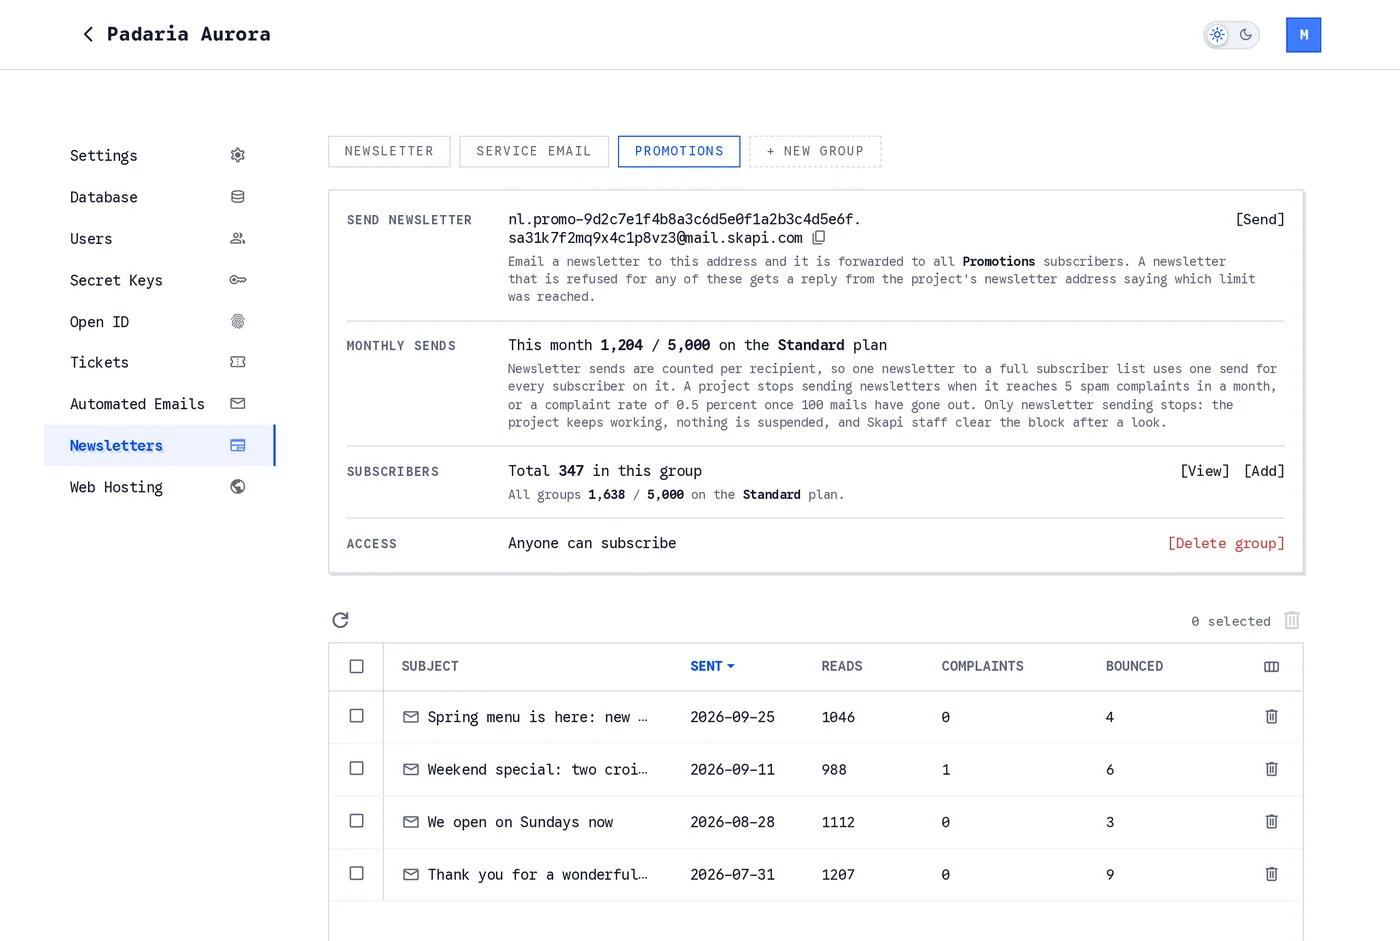
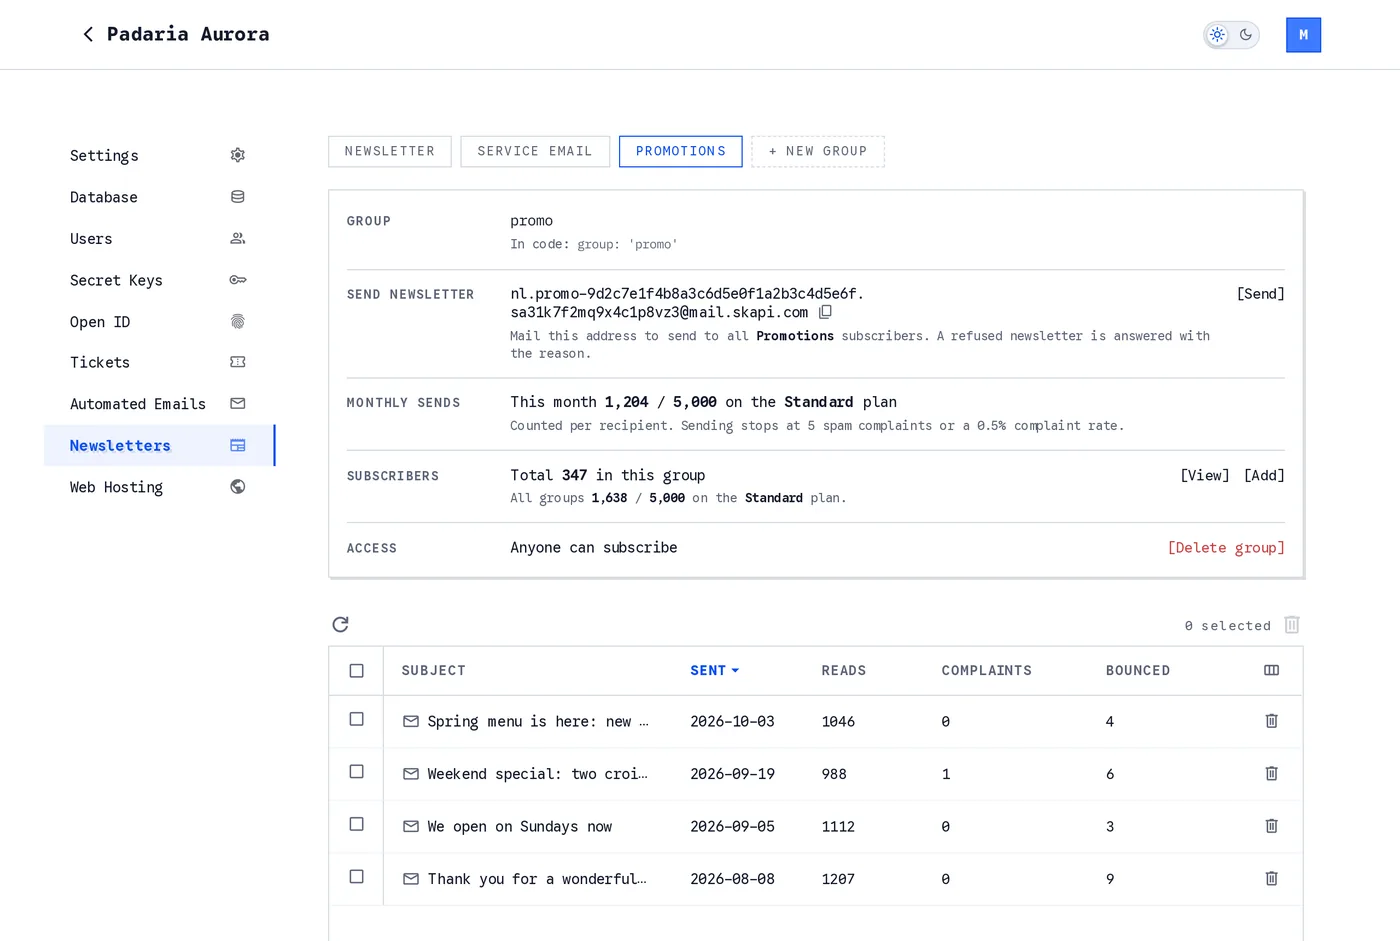
docs: update email subscription options in signup and enhance related documentation; bump version to 2.2.4

diff --git a/email/newsletters.md b/email/newsletters.md
@@ -12,7 +12,7 @@ Endpoints in the older `xxxxxxxxxxxxxxxxxxxx-00xxxxxxxxxxxxxxxxxxxxxxxxxxxxxxxx@
 
 Go to `Newsletters` page, select the tab (`Newsletter`, `Service Email` or a named group), and the page will show the email endpoint address to send the newsletter.
 
-![The Newsletters page of a Skapi project: one tab per list, the sending address with a Send link, monthly sends, subscribers with View and Add links, and the table of sent newsletters](/screenshots/newsletter-page.webp)
+![The Newsletters page of a Skapi project: one tab per list, the group's name as code gives it, the sending address with a Send link, monthly sends, subscribers with View and Add links, and the table of sent newsletters](/screenshots/newsletter-page.webp)
 
 *The Newsletters page. Every list has its own sending address, its own subscriber count and its own history of sent mail.*
 
@@ -148,14 +148,42 @@ skapi.subscribeNewsletter({
 
 The example above shows how to let your users subscribe to Service Email by calling [`subscribeNewsletter()`](/api-reference/email/README.md#subscribenewsletter).
 
+### Subscribing at signup
+
+A user can be subscribed to a newsletter the moment they confirm their e-mail, by giving `email_subscription` to [`signup()`](/api-reference/authentication/README.md#signup).
+It takes the newsletter to subscribe to:
+
+| `email_subscription` | Subscribes the user to |
+| --- | --- |
+| `0` or `'public'` | The public newsletter (group `0`) |
+| `1` or `'authorized'` or `true` | Service Email (group `1`) |
+| The name of a named group, such as `'promo'` | That named newsletter group |
+| `false` or left out | Nothing |
+
+```js
+skapi.signup(
+    { email: 'user@email.com', password: 'password' },
+    { signup_confirmation: true, email_subscription: 'promo' }
+).then(res => alert(res));
+```
+
+The subscription is made when the user opens the signup confirmation link, which also verifies their e-mail. No separate newsletter confirmation e-mail is sent: the signup confirmation is the confirmation.
+
+:::warning
+- `signup_confirmation` is required. A user whose e-mail is never confirmed is never subscribed.
+- A named group has to exist when `signup()` is called, otherwise the call fails with `Newsletter group "promo" does not exist for this service.` If the group is deleted before the user confirms, or its restriction asks for an access group the new account does not have, the user is created without the subscription.
+- Only `0` and `1` are accepted as numbers. The access groups `2` ~ `99` are not newsletters a signup can choose; create a named group with that restriction instead.
+:::
+
 ## Named Newsletters
 
 Your service is not limited to a single mailing list.
 You can create **named newsletter groups** on the `Newsletters` page, and each group keeps its own subscribers, its own sending address, and its own sent mail history.
-For example, one service can run a `launch` list next to a `promo` list, and a subscriber of one never receives the other.
+For example, one service can run a `promo` list next to a `news` list, and a subscriber of one never receives the other.
 
 A group name is 2 ~ 20 lowercase alphanumeric characters, has to contain at least one letter, and cannot be one of the reserved names: `tp`, `admin`, `public`, `authorized`, `newsletter`, `forward`, `all`, `true`, `false`, `null`.
 A name that reads as a number in exponent notation, such as `1e5`, is refused as well.
+`public` and `authorized` are reserved because they are the names of the two numeric groups: everywhere a group is given, including `email_subscription` at signup, `public` means group `0` and `authorized` means group `1`, so no named group can take them.
 
 Every group is created with a `restriction`, which decides who may subscribe to it, and who may read its sent mail:
 
@@ -198,7 +226,7 @@ Subscribing works exactly as it does for the public newsletter and Service Email
 <form onsubmit="skapi.subscribeNewsletter(event).then(res => alert(res))">
     <input type="email" name="email" placeholder='your@email.com'/>
     <input hidden name="redirect" value="https://your.domain.com/successpage"/>
-    <input hidden name="group" value="launch"/>
+    <input hidden name="group" value="promo"/>
     <input type="submit" value="Subscribe"/>
 </form>
 ```
@@ -207,7 +235,7 @@ Subscribing works exactly as it does for the public newsletter and Service Email
 skapi.subscribeNewsletter({
     email: 'users@email.com',
     redirect: 'https://your.domain.com/successpage',
-    group: 'launch'
+    group: 'promo'
 }).then(res => alert(res));
 ```
 :::
@@ -218,22 +246,22 @@ Named newsletters always carry an unsubscribe link at the bottom of the email.
 :::warning
 `email` and `redirect` are only for groups with `restriction: 0`.
 To subscribe to a group with a higher restriction, the user must be logged in, must have their [`email verified`](/user-account/email-verification), and their access group must be equal to or higher than the group's restriction.
-Otherwise the request fails with `Access denied. Your access group is insufficient to subscribe to group "launch".`
+Otherwise the request fails with `Access denied. Your access group is insufficient to subscribe to group "promo".`
 :::
 
 [`getNewsletterSubscription()`](/api-reference/email/README.md#getnewslettersubscription), [`unsubscribeNewsletter()`](/api-reference/email/README.md#unsubscribenewsletter) and [`getNewsletters()`](/api-reference/email/README.md#getnewsletters) all take a group name in the same place:
 
 ```js
-skapi.getNewsletterSubscription({ group: 'launch' }).then(subs => {
-    // subscriptions of the 'launch' group
+skapi.getNewsletterSubscription({ group: 'promo' }).then(subs => {
+    // subscriptions of the 'promo' group
 });
 
-skapi.unsubscribeNewsletter({ group: 'launch' }).then(res => {
-    // user is unsubscribed from the 'launch' newsletter
+skapi.unsubscribeNewsletter({ group: 'promo' }).then(res => {
+    // user is unsubscribed from the 'promo' newsletter
 });
 
-skapi.getNewsletters({ searchFor: 'timestamp', value: Date.now(), condition: '<', group: 'launch' }).then(newsletters => {
-    // newsletters.list is an array of newsletters sent to the 'launch' group
+skapi.getNewsletters({ searchFor: 'timestamp', value: Date.now(), condition: '<', group: 'promo' }).then(newsletters => {
+    // newsletters.list is an array of newsletters sent to the 'promo' group
 });
 ```
 
@@ -242,14 +270,14 @@ skapi.getNewsletters({ searchFor: 'timestamp', value: Date.now(), condition: '<'
 A named group has an endpoint address of its own, starting with `nl.` and the group name:
 
 ```
-nl.launch-xxxxxxxxxxxxxxxxxxxxxxxxxxxxxxxx.xxxxxxxxxxxxxxxxxxxx@mail.skapi.com
+nl.promo-xxxxxxxxxxxxxxxxxxxxxxxxxxxxxxxx.xxxxxxxxxxxxxxxxxxxx@mail.skapi.com
 ```
 
-The older `xxxxxxxxxxxxxxxxxxxx-launch-xxxxxxxxxxxxxxxxxxxxxxxxxxxxxxxx@mail.skapi.com` format keeps working too.
+The older `xxxxxxxxxxxxxxxxxxxx-promo-xxxxxxxxxxxxxxxxxxxxxxxxxxxxxxxx@mail.skapi.com` format keeps working too.
 
 Select the group's tab on the `Newsletters` page. The **Send Newsletter** row shows the address, the **Subscribers** row shows how many addresses the group holds, and the **Access** row shows who may subscribe.
 
-![A named group's tab on the Newsletters page: its own sending address, its subscriber count, an Access row reading Anyone can subscribe, and a Delete group link](/screenshots/newsletter-named-group.webp)
+![A named group's tab on the Newsletters page: its name as code gives it, its own sending address, its subscriber count, an Access row reading Anyone can subscribe, and a Delete group link](/screenshots/newsletter-named-group.webp)
 
 *A named group has its own address, its own count and an Access row.*
 
@@ -272,13 +300,13 @@ Addresses at the large email providers usually pass these checks already.
 
 Only the project owner deletes a group. On the group's tab, click **[Delete group]** on the **Access** row and confirm.
 
-![The Delete Group confirmation: the group will be permanently deleted along with its subscribers and its sending address](/screenshots/newsletter-delete-group.webp)
+![The Delete Group confirmation: the group will be permanently deleted along with its subscribers, the newsletters sent to it and its sending address](/screenshots/newsletter-delete-group.webp)
 
-*Deleting a group removes its subscribers and its sending address with it.*
+*Deleting a group removes its subscribers, the newsletters sent to it and its sending address with it.*
 
 :::warning
-Deleting a group deletes every subscription of that group with it.
-Those subscribers are gone for good, and creating the same name again starts from an empty list.
+Deleting a group deletes every subscription of that group and every newsletter sent to it.
+Those subscribers and that sent mail are gone for good, and creating the same name again starts from an empty list.
 :::
 
 ### Subscriber limit

diff --git a/versionlog/versions.md b/versionlog/versions.md
@@ -1,6 +1,12 @@
 # Version History
 
-### Current version: 2.2.3
+### Current version: 2.2.4
+
+**2.2.4**
+
+- `signup()` option **`email_subscription`** takes the newsletter to subscribe the user to once they confirm their e-mail: `0` or `'public'` (the public newsletter), `1` or `'authorized'` (Service Email), or the **name of a named newsletter group**. `true` still means Service Email. The subscription is made when the signup confirmation link is opened, with no newsletter confirmation e-mail of its own; a user whose e-mail is never confirmed is never subscribed. A named group has to exist when `signup()` is called. See [Subscribing at signup](/email/newsletters.md#subscribing-at-signup).
+- Backend (ships with the API, not the SDK): `adminSignup()` and `inviteUser()` take the same values for `email_subscription`.
+- `public` and `authorized` stay reserved as group names: they are the names of the numeric groups `0` and `1` wherever a group is given.
 
 **2.2.3**
 

diff --git a/api-reference/authentication/README.md b/api-reference/authentication/README.md
@@ -40,8 +40,13 @@ signup(
          */
         signup_confirmation?: boolean | string;
 
-        /** When true, user is subscribed to Service Email (group 1) and can receive it from the admin. (Default = false) */
-        email_subscription?: boolean;
+        /**
+         * The newsletter the user is subscribed to once they confirm their e-mail, with no newsletter
+         * confirmation e-mail of its own: 0 or 'public' (the public newsletter), 1 or 'authorized' or true
+         * (Service Email), or the name of a named newsletter group of the service. Requires
+         * 'signup_confirmation'; a user whose e-mail is never confirmed is never subscribed. (Default = false)
+         */
+        email_subscription?: boolean | number | string;
 
         /** When true, user is logged in soon as the signup process is sucessful.
          * Cannot use with 'signup_confirmation'. (Default = false)

diff --git a/authentication/create-account.md b/authentication/create-account.md
@@ -57,6 +57,7 @@ user's signup will be automatically invalidated.
 
 The second argument takes additional options when creating an account.
 You can also automatically login the user right after successful signup by setting `options.login` to `true` in options argument.
+With `options.email_subscription` the user is subscribed to a newsletter once they confirm their e-mail: `0` or `'public'` for the public newsletter, `1` or `'authorized'` for Service Email, or the name of a named newsletter group. It requires `signup_confirmation`. See [Subscribing at signup](/email/newsletters.md#subscribing-at-signup).
 
 ::: code-group
 
